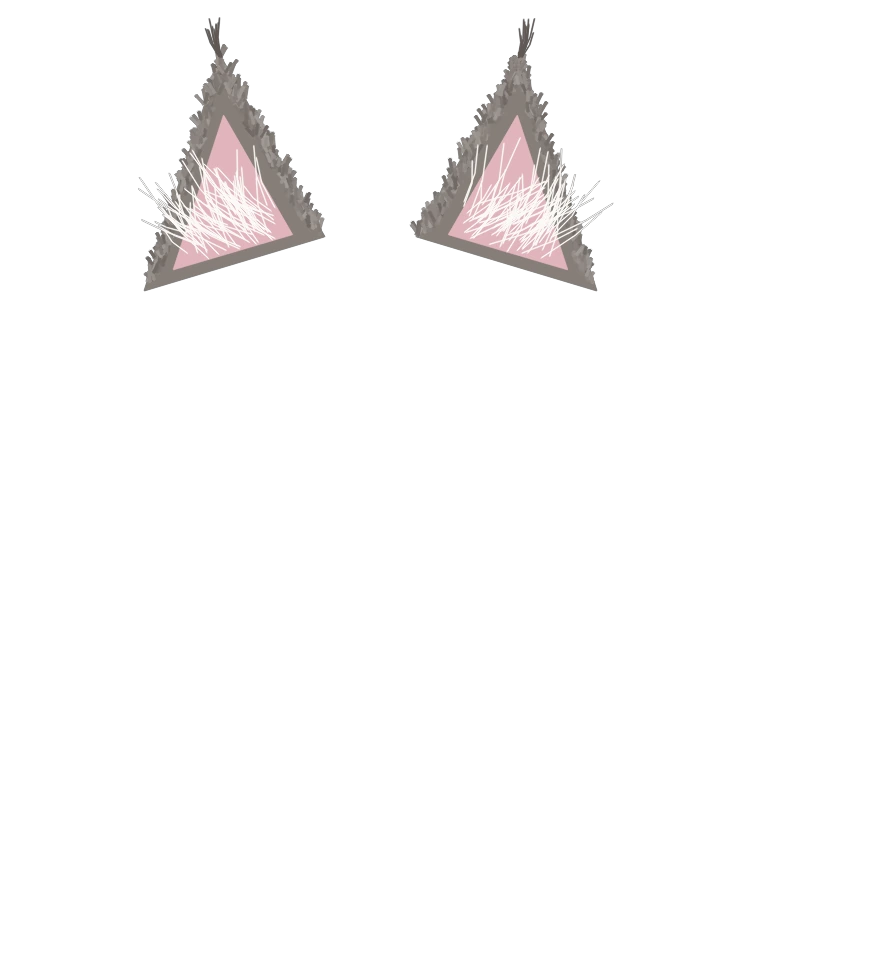
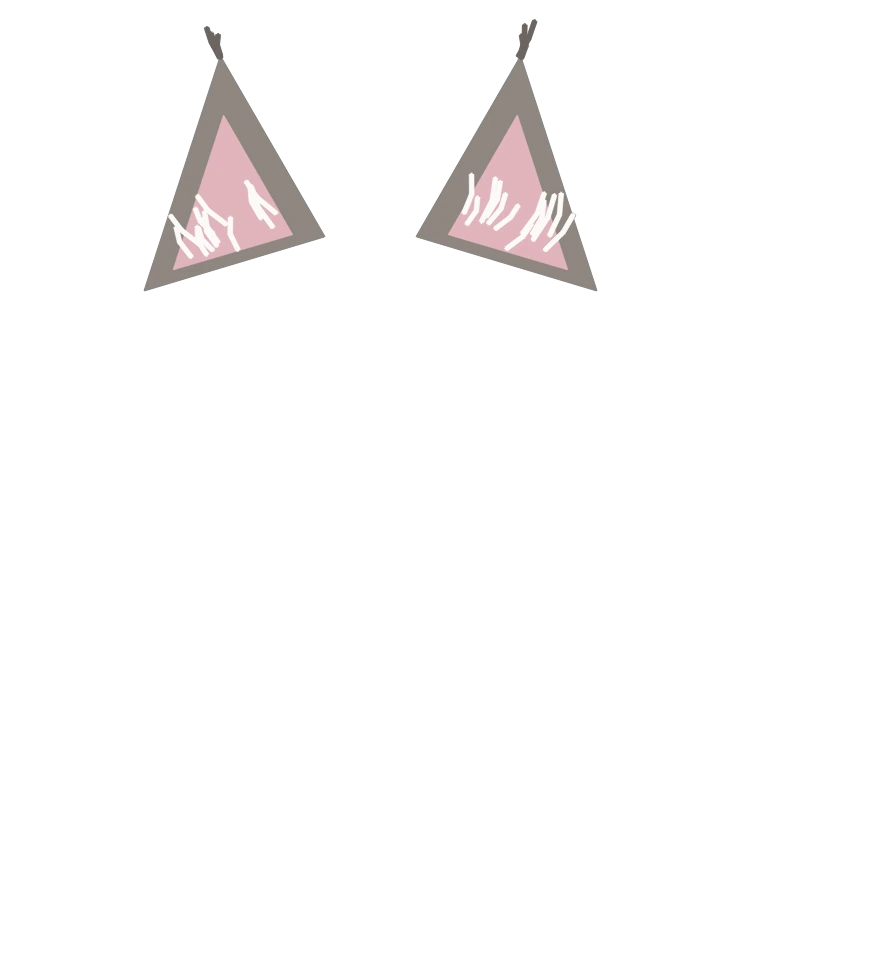
Playground: Ana in Tororo's style (smooth shading, tufted silhouette) with pointer-following head turn
Claude-Session: https://claude.ai/code/session_01W4x6f7KtFbhsBZfqVxHVQA

Changed region(s): [[0.4854, 0.0, 0.6674, 0.2755], [0.1517, 0.0306, 0.364, 0.2755], [0.4551, 0.2143, 0.4854, 0.2449]]

diff --git a/william/tpl.html b/william/tpl.html
@@ -711,7 +711,7 @@ XMLHttpRequest.prototype.open = function (m, url, ...rest) { for (const k in MOC
 	} catch (e) { console.error(e); }
 })();
 // ---------- アナちゃん（試し中・playground だけ）----------
-// 細い毛を 1 本ずつ描いた一枚絵（william/ana/make_ana.py）を、頭・体・しっぽの部品に分けて動かす。William のモデル（Tororo）は使わない
+// Tororo（William）と同じ絵柄（なめらかな塗り＋やわらかい影、長毛は輪郭の毛の房）で 0 から描いた絵（william/ana/make_ana.py）を、しっぽ・体・耳・頭の部品に分けて動かす。動きも Tororo と同じ考え方（ポインターを追って頭が回る、目玉、まばたき、耳、しっぽ、呼吸）
 // 絵の座標（890×980）：足もと (370, 890)、首 (370, 480)、しっぽのつけ根 (560, 800)、耳のつけ根 (260, 240) (480, 240)、目 (296, 350) (444, 350)、鼻 (370, 395)
 // 性格は食いしん坊：正解すると ごはんがもらえて もぐもぐ。空のときは ときどき ぺろっ、「ごはん まだ？」
 const ANA = { img: {}, n: 0, blinkAt: 0, lookT: -1e9, lickT: -1e9, nextLick: 0, eatT: -1e9, food: 0, taps: 0, wantT: -1e9, nextWant: 0 };
@@ -725,6 +725,8 @@ function anaH() { return catH * (stacked ? 1.0 : 1.25); }
 function drawAna(t) {
 	if (ANA.n < 4) return; const I = ANA.img, c = ctx, sp = anaSpot(), h = anaH(), k = h / 850;
 	let lid = 0, mouth = 0, up = 0, dip = 0, lick = 0;
+	// Tororo と同じ動き：ポインターの方を向く（顔の部品が 頭の上で ずれて、頭が回って見える）
+	ANA.lx = (ANA.lx || 0) + ((pointer.nx || 0) * 0.9 - (ANA.lx || 0)) * 0.08; ANA.ly = (ANA.ly || 0) + ((pointer.ny || 0) * 0.7 - (ANA.ly || 0)) * 0.08; const lx = reduce ? 0 : ANA.lx * (1 - 0), ly = reduce ? 0 : ANA.ly;
 	const bk = (t - ANA.blinkAt) / 240; if (bk >= 0 && bk < 1) lid = Math.max(lid, Math.sin(bk * Math.PI)); else if (bk >= 1) ANA.blinkAt = t + 3000 + Math.random() * 4000;
 	const lk = (t - ANA.lookT) / 1600; if (lk >= 0 && lk < 1) { up = Math.sin(lk * Math.PI); lid *= 1 - up; }
 	const ek = (t - ANA.eatT) / 4500;
@@ -742,19 +744,21 @@ function drawAna(t) {
 	// 体（足もとを中心に 呼吸で ふくらむ。食べるときは 少し前へ）
 	c.save(); c.translate(370, 890); c.scale(1 + br * 0.006, 1 + br * 0.01 - dip * 0.03); c.drawImage(I.body, -370, -890); c.restore();
 	// 頭（首を中心に かたむく・上を向く・おさらへ下げる）。耳は 頭のうしろで、つけ根を中心に ぴくっ
-	c.save(); c.translate(370 - dip * 60, 480 - br * 3 - up * 10 + dip * 80 + chew * 5); c.rotate(sway * 0.035 - dip * 0.24); c.scale(1, 1 + up * 0.02); c.translate(-370, -480);
+	c.save(); c.translate(370 - dip * 60 + lx * 10 * (1 - dip), 480 - br * 3 - up * 10 + dip * 80 + chew * 5 + ly * 6 * (1 - dip)); c.rotate(sway * 0.03 - dip * 0.24 + lx * 0.035 * (1 - dip)); c.scale(1, 1 + up * 0.02); c.translate(-370, -480);
 	{ const tw = (t % 6100) / 260, a1 = tw < 1 ? Math.sin(tw * Math.PI) : 0, tw2 = ((t + 2700) % 8300) / 260, a2 = tw2 < 1 ? Math.sin(tw2 * Math.PI) : 0;
-	  for (const [sx, px, py, a] of [[-1, 260, 240, a1], [1, 480, 240, a2]]) { c.save(); c.translate(px, py); c.rotate(sx * (a * 0.16 + dip * 0.14 - up * 0.07)); c.translate(-px, -py); c.beginPath(); c.rect(sx < 0 ? -200 : 370, -200, 570, 1200); c.clip(); c.drawImage(I.ears, 0, 0); c.restore(); } }
+	  for (const [sx, px, py, a] of [[-1, 260, 240, a1], [1, 480, 240, a2]]) { c.save(); c.translate(px, py); c.rotate(sx * (a * 0.16 + dip * 0.14 - up * 0.07)); c.translate(-px, -py); c.beginPath(); c.rect(sx < 0 ? -200 : 370, -200, 570, 1200); c.clip(); c.drawImage(I.ears, -lx * 7, -ly * 5); c.restore(); } }
 	c.drawImage(I.head, 0, 0);
+	c.save(); c.translate(lx * 13, ly * 9);  // 顔の部品（目・鼻・口・ひげ）は 頭より多く動く
+	c.fillStyle = '#eda2b4'; c.strokeStyle = '#c8869a'; c.lineWidth = 1.5; c.beginPath(); c.moveTo(355, 387); c.quadraticCurveTo(370, 383, 385, 387); c.quadraticCurveTo(378, 402, 370, 404); c.quadraticCurveTo(362, 402, 355, 387); c.fill(); c.stroke();  // 鼻
 	// 目：大きく まるい こはく色の目（顔の下より・はなして置く＝かわいい顔）。ふだんは 上まぶたが少し下りた おっとりした目
 	for (const [sx, ex, ey] of [[-1, 296, 350], [1, 444, 350]]) {
 		c.save(); c.translate(ex, ey); c.rotate(sx * -0.06);
 		const shape = () => { c.beginPath(); c.ellipse(0, 0, 36, 33, 0, 0, Math.PI * 2); };
 		shape(); c.lineWidth = 6; c.strokeStyle = '#3b312c'; c.stroke(); c.save(); shape(); c.clip();
 		const g = c.createRadialGradient(0, 4, 4, 0, 0, 36); g.addColorStop(0, '#c9cc66'); g.addColorStop(0.5, '#e0b744'); g.addColorStop(1, '#b07a1e'); c.fillStyle = g; c.fillRect(-40, -38, 80, 76);
-		c.fillStyle = '#17120f'; c.beginPath(); c.ellipse(0, 1, 15 + up * 5, 24, 0, 0, Math.PI * 2); c.fill();
+		c.fillStyle = '#17120f'; c.beginPath(); c.ellipse(lx * 5, 1 + ly * 4, 15 + up * 5, 24, 0, 0, Math.PI * 2); c.fill();  /* 目玉も ポインターを追う */
 		c.fillStyle = 'rgba(255,255,255,.95)'; c.beginPath(); c.arc(-10, -11, 7.5, 0, Math.PI * 2); c.fill(); c.beginPath(); c.arc(9, 12, 3.2, 0, Math.PI * 2); c.fill();
-		const ly = -36 + Math.max(lid, 0.16 * (1 - up)) * 72; c.fillStyle = '#a8a39f'; c.fillRect(-40, -40, 80, ly + 40); c.strokeStyle = '#3b312c'; c.lineWidth = 4; c.beginPath(); c.moveTo(-40, ly - 3); c.quadraticCurveTo(0, ly + 5, 40, ly - 3); c.stroke();
+		const ly2 = -36 + Math.max(lid, 0.16 * (1 - up)) * 72; c.fillStyle = '#a8a39f'; c.fillRect(-40, -40, 80, ly2 + 40); c.strokeStyle = '#3b312c'; c.lineWidth = 4; c.beginPath(); c.moveTo(-40, ly2 - 3); c.quadraticCurveTo(0, ly2 + 5, 40, ly2 - 3); c.stroke();
 		c.restore(); c.restore();
 	}
 	// 口：ω の形。食べるときは あけて もぐもぐ、ぺろっ は 小さい舌
@@ -765,6 +769,7 @@ function drawAna(t) {
 	// ひげ
 	c.strokeStyle = 'rgba(255,255,255,.9)'; c.lineWidth = 1.4; c.lineCap = 'round';
 	for (const sx of [-1, 1]) for (let i = 0; i < 4; i++) { c.beginPath(); c.moveTo(370 + sx * 48, 408 + i * 6); c.quadraticCurveTo(370 + sx * 150, 396 + i * 14, 370 + sx * (250 + i * 8), 386 + i * 28); c.stroke(); }
+	c.restore();
 	c.restore();
 	// ごはんのおさら（体の左まえ）
 	{ const bx = 0, by = 0; c.save(); c.translate(70, 872); c.scale(1.9, 1.9); c.fillStyle = '#d9c7b0'; c.beginPath(); c.ellipse(bx, by + 6, 46, 11, 0, 0, Math.PI * 2); c.fill();

diff --git a/william/ana/make_ana.py b/william/ana/make_ana.py
@@ -51,6 +51,29 @@ def paint(mask, col, flow, n, length, width, order):
         cv2.fillConvexPoly(rgb, pts.astype(np.int32), tuple(float(v) for v in c.clip(0, 255)), cv2.LINE_AA, 3); cv2.fillConvexPoly(al, pts.astype(np.int32), 255, cv2.LINE_AA, 3)
     return np.dstack([rgb, al])
 
+def flat(mask, col, tufts, ring, grav=0.5, marks=0, mark_y=(0.0, 1.0)):
+    """Tororo と同じ絵柄：なめらかな塗り＋やわらかい影。長毛は 輪郭の毛の房（とがった房が 外へ出る）と、中の 少しの房のしるしで表す"""
+    m = mask.astype(np.uint8); core = cv2.erode(m, np.ones((5, 5), np.uint8)); cs = cv2.GaussianBlur(col, (0, 0), 7)
+    dist, lab = cv2.distanceTransformWithLabels(1 - core, cv2.DIST_L2, 5, labelType=cv2.DIST_LABEL_PIXEL)
+    cyx = np.argwhere(core > 0); lut = np.zeros((lab.max() + 1, 2), np.int32); lut[lab[core > 0]] = cyx
+    ny, nx = lut[lab][..., 0], lut[lab][..., 1]
+    ys, xs = np.where(core > 0); cx, cy, w, h = xs.mean(), ys.mean(), xs.max() - xs.min(), ys.max() - ys.min()
+    th = np.arctan2(ny - cy, (nx - cx) * (h / w)); u = (th / (2 * math.pi) + 0.5) * tufts; tid = np.floor(u).astype(np.int32) % tufts; f = u - np.floor(u)
+    lens = 0.5 + 0.5 * rng.rand(tufts); skew = 0.3 + 0.4 * rng.rand(tufts)
+    prof = np.where(f < skew[tid], f / skew[tid], (1 - f) / (1 - skew[tid])) ** 0.75
+    L = ring * lens[tid] * (0.2 + 0.8 * prof) * (1 - grav + grav * (0.5 + 0.5 * np.sin(th)) * 2).clip(0.5, 1.6)
+    alpha = np.where(core > 0, 1.0, np.clip((L - (dist - 2)) / 1.4, 0, 1))
+    din = cv2.distanceTransform(core, cv2.DIST_L2, 5)
+    rgb = cs[ny, nx] * (1 - 0.07 * np.exp(-din / 14))[..., None]                         # ふちは ほんの少し暗く（立体感）
+    rgb = np.ascontiguousarray(rgb.clip(0, 255).astype(np.uint8))
+    for _ in range(marks):                                                               # 中の 房のしるし（小さな「く」の字）
+        i = rng.randint(len(xs)); x, y = xs[i], ys[i]
+        if not (mark_y[0] <= (y - ys.min()) / h <= mark_y[1]) or din[y, x] < 16: continue
+        tw = rng.uniform(16, 30); lean = (x - cx) / w * 0.8; c = tuple(float(v) for v in cs[y, x] * 0.93)
+        pts = (np.array([[x - tw / 2, y - tw * 0.9], [x + lean * tw, y], [x + tw / 2, y - tw * 0.9]]) * 8).astype(np.int32)
+        cv2.polylines(rgb, [pts], False, c, 2, cv2.LINE_AA, 3)
+    return np.dstack([rgb, (alpha * 255).astype(np.uint8)])
+
 def norm2(fx, fy):
     m = np.hypot(fx, fy) + 1e-6; return fx / m, fy / m
 def lerp(a, b, k): return a * (1 - k[..., None]) + b * k[..., None]
@@ -70,11 +93,11 @@ bcol *= (1 - 0.07 * ss(0, 240, np.abs(xx - CX)) ** 2)[..., None]                
 bcol *= (1 - 0.16 * ss(560, 470, yy) * ss(210, 60, np.abs(xx - CX)))[..., None]              # あごの下の影
 bcol *= (1 - 0.10 * ss(770, 880, yy))[..., None]                                             # 体の下の影
 bflow = norm2((xx - CX) / 330.0, np.ones_like(xx))
-body = paint(bm, bcol, bflow, 80000, np.where(yy < 720, 40.0, 24.0).astype(np.float32), 1.9, yy)
+body = flat(bm, bcol, 30, 34, grav=0.55, marks=60, mark_y=(0.05, 0.8))
 # 足先（まるい。体の毛の下から 出る）
 pm, ph, pn = solid([(302, 858, 60, 36, 40), (438, 858, 60, 36, 40)])
 pcol = (np.zeros((H, W, 3), np.float32) + WHITE) * shade(pn, 0.88, 0.14)[..., None]
-paws = paint(pm, pcol, norm2(np.where(xx < CX, xx - 302, xx - 438) * 0.02, np.ones_like(xx)), 9000, 9.0, 1.7, yy)
+paws = flat(pm, pcol, 14, 5, grav=0.3)
 pb = np.ascontiguousarray(paws[..., :3])
 for cx in (302, 438):
     for dx in (-17, 0, 17): cv2.line(pb, (int((cx + dx) * 8), 866 * 8), (int((cx + dx * 1.1) * 8), 886 * 8), (196, 190, 200), 2, cv2.LINE_AA, 3)   # 指のあいだ
@@ -96,35 +119,29 @@ muz = np.exp(-(((xx - MX) / 62) ** 2 + ((yy - 412) / 40) ** 2)); hcol = np.clip(
 fx, fy = xx - MX, (yy - (MY - 30)) * 0.9; lowc = (yy > MY - 10) & (np.abs(xx - MX) > 70)
 fx, fy = np.where(lowc, (xx - MX) * 0.016, fx), np.where(lowc, 1.0, fy)
 hlen = (7 + np.clip(np.hypot(xx - MX, yy - MY) * 0.11, 0, 22)) * np.where(lowc, 1.6, 1.0)
-head = paint(hm, hcol, norm2(fx, fy), 62000, hlen.astype(np.float32), 1.6, np.hypot(xx - MX, (yy - MY) * 1.1) + np.where(yy > MY, (yy - MY) * 0.7, 0))
-hb = np.ascontiguousarray(head[..., :3])
-# 鼻（小さい ピンクの逆三角）
-nose = np.array([[MX - 15, MY - 8], [MX + 15, MY - 8], [MX + 6, MY + 5], [MX, MY + 9], [MX - 6, MY + 5]]) * 8
-cv2.fillPoly(hb, [nose.astype(np.int32)], (178, 160, 232), cv2.LINE_AA, 3); cv2.polylines(hb, [nose.astype(np.int32)], True, (150, 128, 200), 1, cv2.LINE_AA, 3)
-cv2.ellipse(hb, (int((MX - 4) * 8), int((MY - 4) * 8)), (5 * 8, 2 * 8), 0, 0, 360, (215, 205, 248), -1, cv2.LINE_AA, 3)
-head[..., :3] = hb
+head = flat(hm, hcol, 26, 30, grav=0.75, marks=14, mark_y=(0.72, 0.95))
 
 # ---------- 耳（べつの部品。大きく、少し外向き。中は うすいピンクと 白い長い毛、先に 長い毛） ----------
 ears = np.zeros((H, W, 4), np.uint8); eb = np.ascontiguousarray(ears[..., :3]); ea = np.ascontiguousarray(ears[..., 3])
 for sx in (-1, 1):
     X = lambda d: HX + sx * d
     pts = np.array([[X(46), 236], [X(150), 56], [X(226), 290]], np.float32); tip = pts[1]; cen = pts.mean(axis=0)
-    cv2.fillPoly(eb, [(pts * 8).astype(np.int32)], (120, 126, 134), cv2.LINE_AA, 3); cv2.fillPoly(ea, [(pts * 8).astype(np.int32)], 255, cv2.LINE_AA, 3)
+    cv2.fillPoly(eb, [(pts * 8).astype(np.int32)], (128, 134, 142), cv2.LINE_AA, 3); cv2.fillPoly(ea, [(pts * 8).astype(np.int32)], 255, cv2.LINE_AA, 3)
     inner = cen + (pts - cen) * 0.66 + [0, 12]
     cv2.fillPoly(eb, [(inner * 8).astype(np.int32)], (188, 180, 224), cv2.LINE_AA, 3)
-    for i in range(420):                                                                     # 外側の短い毛（ふちを やわらかく）
+    for i in range(0):
         t = rng.rand(); q = (pts[0] if rng.rand() < 0.5 else pts[2]) * (1 - t) + tip * t; q = q + (cen - q) * rng.uniform(-0.03, 0.2)
         L = rng.uniform(5, 12); ang = math.atan2(tip[1] - cen[1], tip[0] - cen[0]) + rng.uniform(-0.7, 0.7); gcol = rng.uniform(100, 150)
         l2 = np.array([q, q + [math.cos(ang) * L, math.sin(ang) * L]]) * 8
         cv2.line(eb, tuple(l2[0].astype(int)), tuple(l2[1].astype(int)), (gcol, gcol + 5, gcol + 12), 2, cv2.LINE_AA, 3); cv2.line(ea, tuple(l2[0].astype(int)), tuple(l2[1].astype(int)), 255, 2, cv2.LINE_AA, 3)
-    for i in range(14):                                                                      # 耳の先の長い毛
+    for i in range(4):                                                                       # 耳の先の毛
         L = rng.uniform(18, 40); ang = math.radians(-90 + sx * rng.uniform(0, 26)); q = tip + rng.uniform(-2, 2, 2)
         l2 = (np.array([q, q + [math.cos(ang) * L * 0.5 + sx * 2, math.sin(ang) * L * 0.5], q + [math.cos(ang) * L, math.sin(ang) * L]]) * 8).astype(np.int32)
-        cv2.polylines(eb, [l2], False, (84, 88, 96), 1, cv2.LINE_AA, 3); cv2.polylines(ea, [l2], False, 255, 1, cv2.LINE_AA, 3)
-    for i in range(80):                                                                      # 耳の中から 外へ流れる 白い長い毛
-        t = rng.uniform(0.1, 0.9); q = inner[0] * (1 - t) + inner[2] * t + [0, -rng.uniform(0, 40)]; L = rng.uniform(30, 78); ang = math.radians(-90 + sx * rng.uniform(8, 72))
+        cv2.polylines(eb, [l2], False, (96, 100, 108), 3, cv2.LINE_AA, 3); cv2.polylines(ea, [l2], False, 255, 3, cv2.LINE_AA, 3)
+    for i in range(12):                                                                      # 耳の中から 外へ流れる 白い毛の房
+        t = rng.uniform(0.1, 0.9); q = inner[0] * (1 - t) + inner[2] * t + [0, -rng.uniform(0, 30)]; L = rng.uniform(26, 50); ang = math.radians(-90 + sx * rng.uniform(10, 50))
         l2 = (np.array([q, q + [math.cos(ang) * L * 0.5 + sx * 4, math.sin(ang) * L * 0.5], q + [math.cos(ang) * L, math.sin(ang) * L]]) * 8).astype(np.int32)
-        cv2.polylines(eb, [l2], False, (248, 250, 252), 1, cv2.LINE_AA, 3); cv2.polylines(ea, [l2], False, 255, 1, cv2.LINE_AA, 3)
+        cv2.polylines(eb, [l2], False, (248, 250, 252), 3, cv2.LINE_AA, 3); cv2.polylines(ea, [l2], False, 255, 3, cv2.LINE_AA, 3)
 ears = np.dstack([eb, ea])
 
 # ---------- しっぽ（羽のよう。体の右うしろから 上へ） ----------
@@ -137,7 +154,7 @@ d = (xx[..., None] - spine[None, None, ::6, 0]) ** 2 + (yy[..., None] - spine[No
 ni = np.argmin(d, axis=2) * 6; sx_, sy_ = spine[ni, 0], spine[ni, 1]; nj = np.clip(ni + 6, 0, len(spine) - 1); tx_, ty_ = spine[nj, 0] - sx_, spine[nj, 1] - sy_
 rad = np.sqrt(d.min(axis=2)); core = np.clip(1 - rad / 70, 0, 1)
 tcol = lerp(DARK[None, None] * 0.92, GREY[None, None] * 1.02, ss(0.2, 1.0, core) * 0.7 + n2 * 0.25) * (0.86 + 0.2 * ss(60, 0, (xx - sx_) * 0.5 + (yy - sy_) * 0.7 + 30))[..., None]
-tail = paint(tm > 0, tcol, norm2(tx_ * 0.5 + (xx - sx_) * 1.5, ty_ * 0.5 + (yy - sy_) * 1.5), 26000, 34.0, 2.0, -rad)
+tail = flat(tm > 0, tcol, 30, 30, grav=0.2, marks=0)
 
 def save(img, name):
     from PIL import Image

diff --git a/william/ana/README.md b/william/ana/README.md
@@ -5,11 +5,11 @@
 - `make_ana.py`：アナちゃんを 0 から描く（写真の輪郭は使わない）。
   - 形は立体（だ円体の組み合わせ）：まるい頭＋ほおの毛、洋なし形の体、まるい足先、羽のようなしっぽ、大きな耳
   - 光は左上から。立体の向きで明るさを決め、あごの下・体の下に影
-  - 毛は 先の細い毛を 1 本ずつ、表面にそって重ねる（色の面では塗らない）
+  - 絵柄は Tororo（William）と同じ：なめらかな塗り＋やわらかい影。長毛は 輪郭の毛の房と、中の 少しの房のしるしで表す
   - かわいさ：頭を大きく、目は顔の下より・大きく・はなして、鼻と口は小さく
   - アナちゃんらしさ：灰色は 耳・ひたいの両がわ・目の外がわ・体のわき・しっぽ。ひたいの白い筋が口元へ広がる。胸は白い長い毛
   - 出力は `william/assets/ana_{tail,body,ears,head}.webp`（同じ座標の 4 枚）
-- `tpl.html` の `drawAna`：4 枚を しっぽ → 体 → 耳 → 頭 の順に重ね、目・口・ひげを描いて動かす（呼吸、頭、耳、まばたき、もぐもぐ、ぺろっ、しっぽ）
+- `tpl.html` の `drawAna`：4 枚を しっぽ → 体 → 耳 → 頭 の順に重ね、目・鼻・口・ひげを描いて動かす。動きも Tororo と同じ考え方（ポインターを追って頭が回る＝顔の部品が頭の上でずれる、目玉、まばたき、耳、しっぽ、呼吸）＋ もぐもぐ・ぺろっ
 - 作り直し：`python3 william/ana/make_ana.py` → `npm run build`
 - 入れたスキル（`.claude/skills/`、リポジトリには入れない）：cli-anything-live2d（Live2D モデルの点検・編集用。絵から moc3 は作れない）、gimp / krita / inkscape / blender の CLI
 
